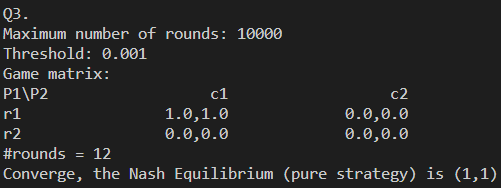
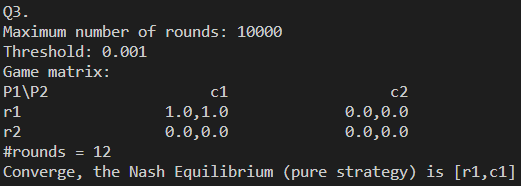
Add files via upload

diff --git a/ficplay.cpp b/ficplay.cpp
@@ -9,7 +9,7 @@ static int MAXRD = 10000;
 static double THRESHOLD = 1e-3;
 static bool INDETAIL = false;
 
-static string action[M] = {"S", "B"};
+static string action[N][M];
 static double matrice[N][M][M];         // Player p's payoff when he doing action a_1 and others doing action a_2
 static double belief[N][M];          // record[Player p][Action a] = times that player p choose action a
 static double payoff[N][M];
@@ -36,8 +36,10 @@ int main(int argc, char** argv) {
     memset(payoff, 0, sizeof(payoff));
 
     /* Actions' name */
-    for (int i = 0; i < M; i++) {
-        cin >> action[i];
+    for (int i = 0; i < N; i++) {
+        for (int j = 0; j < M; j++) {
+            cin >> action[i][j];
+        }
     }
 
     /* Set belief */
@@ -59,11 +61,11 @@ int main(int argc, char** argv) {
     /* Print game matrice */
     cout << "Game matrix:\n";
     cout << "P1\\P2"
-        << setw(WIDTH) << "c1"
-        << setw(WIDTH) << "c2"
+        << setw(WIDTH) << action[1][0]
+        << setw(WIDTH) << action[1][1]
         << '\n';
     for (int i = 0; i < M; i++) {
-        cout << setw(5) << left << (i == 0 ? "r1" : "r2");
+        cout << setw(5) << left << action[0][i];
         for (int j = 0; j < M; j++) {
             char u[WIDTH];
             sprintf(u, "%.1f,%.1f", matrice[0][i][j], matrice[1][j][i]);
@@ -128,8 +130,8 @@ int main(int argc, char** argv) {
             sprintf(payoff2, "%.2f %.2f", payoff[1][0], payoff[1][1]);
 
             cout << right << setw(5) << round
-                << right << setw(WIDTH) << (round == 0 ? "-" : action[BR[0]])
-                << right << setw(WIDTH) << (round == 0 ? "-" : action[BR[1]])
+                << right << setw(WIDTH) << (round == 0 ? "-" : action[0][BR[0]])
+                << right << setw(WIDTH) << (round == 0 ? "-" : action[1][BR[1]])
                 << right << setw(WIDTH) << string(belief1)
                 << right << setw(WIDTH) << string(belief2)
                 << right << setw(WIDTH) << string(payoff1)
@@ -149,7 +151,7 @@ int main(int argc, char** argv) {
 
             if (pure_strategies.empty()) {
                 cout << "#rounds = " << round << '\n';
-                cout << "Converge, the Nash Equilibrium (pure strategy) is (" << action[BR[0]] << ',' << action[BR[1]] << ")\n";
+                cout << "Converge, the Nash Equilibrium (pure strategy) is [" << action[0][BR[0]] << ',' << action[1][BR[1]] << "]\n";
                 return 0;
             }
 
